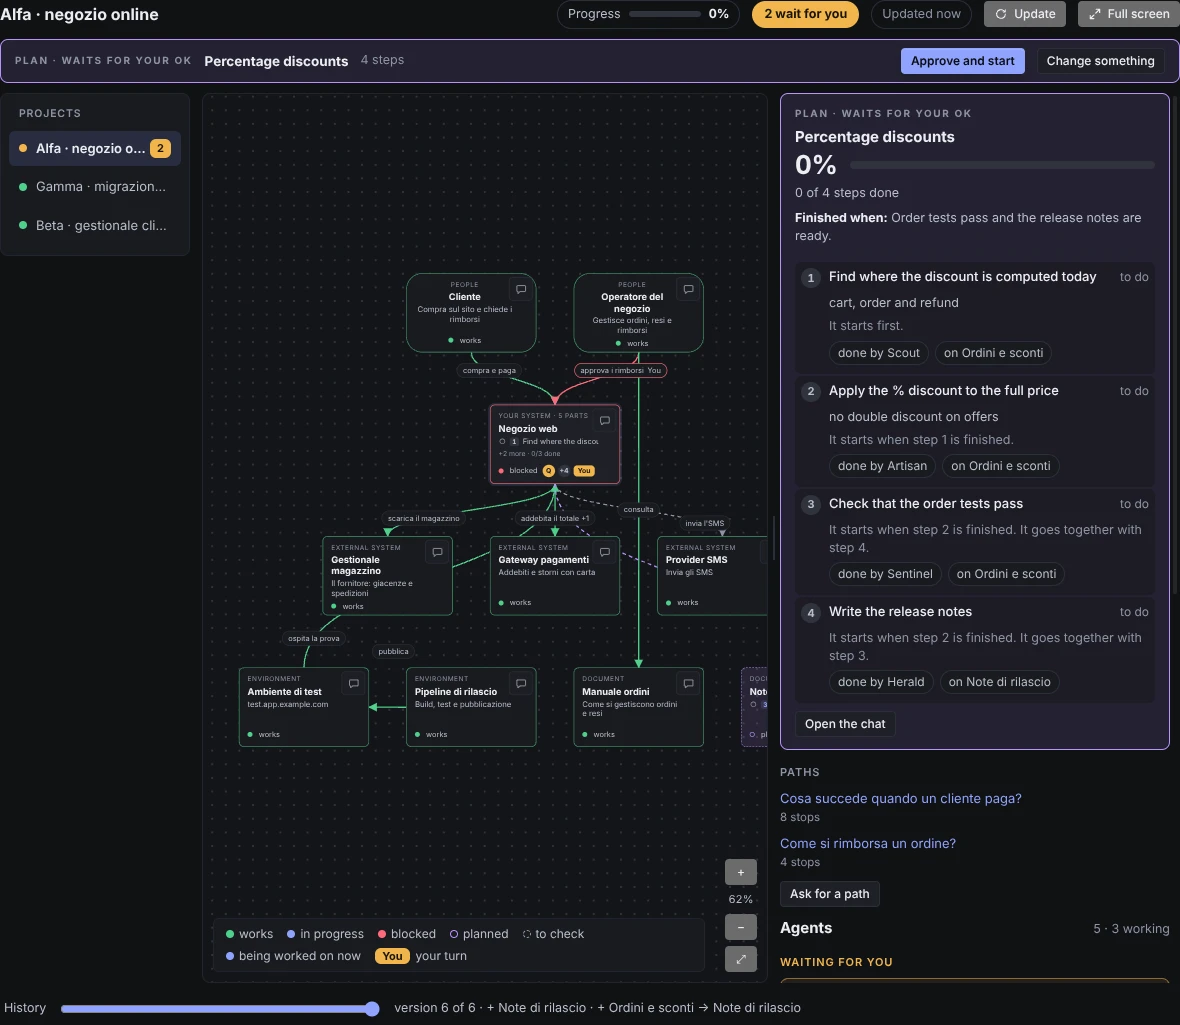
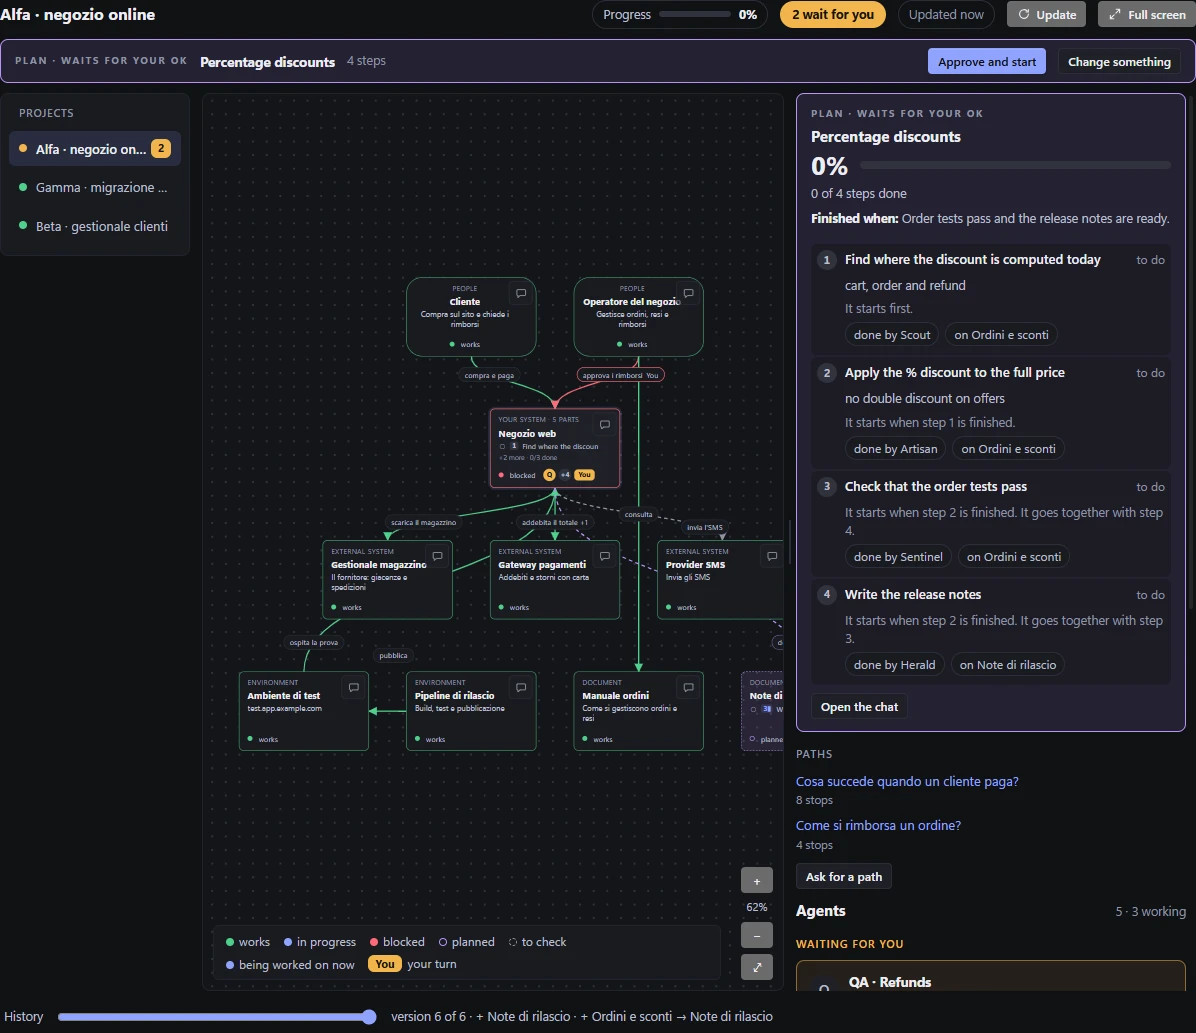
docs: guide card and README shots for the vertical project map

diff --git a/src/shared/concept-guide.de.ts b/src/shared/concept-guide.de.ts
@@ -586,7 +586,7 @@ export const GUIDE_DE: Readonly<Record<string, string>> = {
   "\"Projects\" draws a project of yours in place of its code: people, your systems, external systems, environments and documents, with the links and the status of each; a click on a system opens its parts and shows around them the other systems they talk to. \"You\" marks what waits for you. The map button at the top of the Orchestrator (or Ctrl+Shift+S) opens the maps full screen (Esc leaves them on this page, with the Orchestrator beside it); the Orchestrator opens it too, beside itself, when you ask for a project’s map or lines, instead of drawing a diagram. Ctrl+wheel zooms where you point, dragging the background moves the view, ⤢ shows all of it; inside a system the button at the top left, Backspace or a double click on the background go back up. «Full screen» puts it really full screen (Esc leaves); the bubble at the top right of every box discusses it with the Orchestrator in one click: it gets a message ready with the box and its status. A box somebody works on right now pulses quietly and a line under work carries a moving mark; a plan shows its steps in order in the side panel, and on its box each step wears the number of its turn («∥» when it goes in parallel with others); with more than one project you pick from the list at the side. A click on a box, or on an arrow’s label, opens «How it works» at the side: the piece’s long text, its parts, what goes in and out and what passes on each link. The step of a plan under way is told in full (when it starts, who does it, on which box, how far it is); a click on another step’s row opens it. «Update» asks the Orchestrator to have the project read again and the map redrawn with the details: it uses tokens, and the map changes by itself when it is done.": "„Projekte“ zeichnet ein Projekt von dir statt seines Codes: Personen, deine Systeme, externe Systeme, Umgebungen und Dokumente, mit den Verbindungen und dem Status von jedem; ein Klick auf ein System öffnet seine Teile und zeigt rundherum die anderen Systeme, mit denen sie sprechen. „Du“ markiert, was auf dich wartet. Der Kartenknopf oben im Orchestrator (oder Strg+Umschalt+S) öffnet die Karten im Vollbild (Esc lässt sie auf dieser Seite, mit dem Orchestrator daneben); auch der Orchestrator öffnet es, neben sich, wenn du nach der Karte oder den Linien eines Projekts fragst, statt ein Schema zu zeichnen. Strg+Mausrad zoomt dorthin, wo du zeigst, Ziehen des Hintergrunds verschiebt die Ansicht, ⤢ zeigt alles; in einem System führen der Knopf oben links, die Rücktaste oder ein Doppelklick auf den Hintergrund eine Ebene zurück. „Vollbild“ zeigt sie wirklich im Vollbild (Esc beendet es); die Sprechblase oben rechts in jedem Kasten bespricht ihn mit dem Orchestrator mit einem Klick: Er bekommt eine fertige Nachricht mit dem Kasten und seinem Status. Ein Kasten, an dem gerade jemand arbeitet, pulsiert leise, und eine Linie in Arbeit trägt eine wandernde Marke; ein Plan zeigt seine Schritte der Reihe nach im Bereich an der Seite, und auf seinem Kasten trägt jeder Schritt die Nummer seiner Runde («∥», wenn er parallel zu anderen läuft); bei mehreren Projekten wählst du aus der Liste an der Seite. Ein Klick auf einen Kasten oder auf die Beschriftung eines Pfeils öffnet an der Seite „So funktioniert es“: den langen Text des Teils, seine Teile, was hinein- und hinausgeht und was über jede Verbindung läuft. Der laufende Schritt eines Plans steht ausgeschrieben da (wann er beginnt, wer ihn macht, an welchem Kasten, wie weit er ist); ein Klick auf die Zeile eines anderen Schritts öffnet ihn. „Aktualisieren“ bittet den Orchestrator, das Projekt neu lesen und die Karte mit den Details neu zeichnen zu lassen: Das kostet Tokens, und die Karte ändert sich von selbst, wenn er fertig ist.",
   "An agent that reads the project draws it: ask the Orchestrator. Then the map follows the chats by itself: a chat linked to a box (the Orchestrator links it when it starts it, or the chat says so itself) turns it \"in progress\" when it starts, \"blocked\" with \"You\" while it waits for your answer, and \"done\" when it says it has finished; the agents show beside the map with the steps done and the question they ask you. A box with pieces inside says what they say: all done = done, one in progress = in progress, one blocked = blocked. A finished phase or step reads \"done\", a system \"works\". A status nobody confirmed for 2 hours, or whose files changed, turns \"to check\".": "Ein Agent, der das Projekt liest, zeichnet sie: Frag den Orchestrator. Danach folgt die Karte den Chats von selbst: Ein Chat, der mit einem Kasten verknüpft ist (der Orchestrator verknüpft ihn beim Start, oder der Chat sagt es selbst), setzt ihn auf „in Arbeit“, wenn er startet, auf „blockiert“ mit „Du“, solange er auf deine Antwort wartet, und auf „erledigt“, wenn er meldet, dass er fertig ist; die Agenten erscheinen neben der Karte mit den erledigten Schritten und der Frage, die sie dir stellen. Ein Kasten mit Teilen darin sagt, was sie sagen: alle erledigt = erledigt, einer in Arbeit = in Arbeit, einer blockiert = blockiert. Eine fertige Phase oder ein fertiger Schritt heißt „erledigt“, ein System „funktioniert“. Ein Status, den seit 2 Stunden niemand bestätigt hat oder dessen Dateien sich geändert haben, wird „zu prüfen“.",
   "Every save is a version: the \"History\" slider plays the project from its first map to now. The map lives in the brain (projects/), and the Orchestrator reads it, opens it or corrects it for you. Deeper: a part with pieces of its own opens like a system, down to four levels. A box’s panel also tells the rules it applies, what it keeps and where, how big it is (files and lines counted by the app, no tokens), why it is made this way and its key files: a click opens the file in the viewer. «Paths» tells a question about the project («What happens when a customer pays?») stop by stop on the boxes: Next and Back (or ← →) light one box at a time and the view follows it; «Ask for a path» gets the question ready for the Orchestrator.": "Jedes Speichern ist eine Version: Der Regler „Verlauf“ spielt das Projekt von der ersten Karte bis heute ab. Die Karte liegt im Brain (projects/), und der Orchestrator liest, öffnet oder korrigiert sie für dich. Tiefer: Ein Teil mit eigenen Stücken öffnet sich wie ein System, bis zu vier Ebenen. Das Feld eines Kastens nennt auch die Regeln, die er anwendet, was er speichert und wo, wie groß er ist (Dateien und Zeilen, von der App gezählt, ohne Tokens), warum er so gebaut ist und die wichtigen Dateien: Ein Klick öffnet die Datei im Viewer. „Wege“ erzählt eine Frage zum Projekt („Was passiert, wenn ein Kunde zahlt?“) Station für Station auf den Kästen: Weiter und Zurück (oder ← →) heben einen Kasten nach dem anderen hervor, und die Ansicht folgt ihm; „Einen Weg erfragen“ bereitet die Frage für den Orchestrator vor.",
-  "A project that is a path of work is drawn as a sequence: the phases in a line, one after the other, and inside each phase its steps, in a line too, in the order they were saved. Every box wears its number, a plain arrow leads to the next (with no status: it never says «da capire») and two steps sit side by side only when the map says they go together («∥»). A step’s panel tells its status, proofs (a text, a file, an address) and links, a phase’s lists its steps: a click opens the step. Empty sections do not show. The panel gets wider by dragging its left edge and remembers the width; a double click for the starting one. The map also tells how far the project is: the percentage at the top, and the side panel opens with «Progress»: the steps done, the phase we are at, what is under way and who works on it, what waits for you, what is blocked, what comes next, and every phase with its own bar (a click enters it). The pieces with nothing inside are counted, and done is what «works». On a map with no order (no phases, no boxes chained one after the other) the percentage is the one of the plan under way. Every plan has its card there, one row per step; over the drawing only one line stays, with «Approva e parti», while a plan waits for your ok.": "Ein Projekt, das ein Arbeitsweg ist, wird als Abfolge gezeichnet: die Phasen in einer Reihe, eine nach der anderen, und in jeder Phase ihre Schritte, ebenfalls in einer Reihe, in der gespeicherten Reihenfolge. Jeder Kasten trägt seine Nummer, ein einfacher Pfeil führt zum nächsten (ohne Status: er sagt nie «da capire») und zwei Schritte stehen nur dann nebeneinander, wenn die Karte sagt, dass sie zusammen laufen («∥»). Der Bereich eines Schritts nennt Status, Belege (ein Text, eine Datei, eine Adresse) und Links, der einer Phase listet ihre Schritte: ein Klick öffnet den Schritt. Leere Abschnitte erscheinen nicht. Der Bereich wird breiter, wenn man seinen linken Rand zieht, und merkt sich die Breite; Doppelklick für die Anfangsbreite. Die Karte sagt auch, wie weit das Projekt ist: oben der Prozentwert, und der Bereich an der Seite beginnt mit «Fortschritt»: die erledigten Schritte, die Phase, in der wir sind, was gerade läuft und wer daran arbeitet, was auf dich wartet, was blockiert ist, was danach kommt, und jede Phase mit ihrem eigenen Balken (ein Klick führt hinein). Gezählt werden die Teile, in denen nichts weiter steckt, und erledigt ist, was «funktioniert». Auf einer Karte ohne Reihenfolge (keine Phasen, keine Kästen in einer Kette hintereinander) gilt der Prozentwert des laufenden Plans. Jeder Plan hat dort seine Karte, mit einer Zeile pro Schritt; über der Zeichnung bleibt nur eine Zeile mit „Genehmigen und starten“, solange ein Plan auf dein Ok wartet.",
+  "A project that is a path of work is drawn as a sequence, top to bottom, never wrapping: every phase is an open frame with its steps inside, in the order they were saved. Every box wears its number, a plain arrow leads to the next (with no status: it never says «da capire»); the steps the map calls independent («∥») sit side by side in a dashed pink frame «∥ N in parallel», with the point where they split and the one where they join. Pink only says «in parallel»: the status colours stay on the boxes and the legend explains both. A step’s panel tells its status, proofs (a text, a file, an address) and links, a phase’s lists its steps: a click opens the step. Empty sections do not show. The panel gets wider by dragging its left edge and remembers the width; a double click for the starting one. The map also tells how far the project is: the percentage at the top, and the side panel opens with «Progress»: the steps done, the phase we are at, what is under way and who works on it, what waits for you, what is blocked, what comes next, and every phase with its own bar (a click enters it). The pieces with nothing inside are counted, and done is what «works». On a map with no order (no phases, no boxes chained one after the other) the percentage is the one of the plan under way. Every plan has its card there, one row per step; over the drawing only one line stays, with «Approva e parti», while a plan waits for your ok.": "Ein Projekt, das ein Arbeitsweg ist, wird als Abfolge gezeichnet, von oben nach unten, ohne Zeilenumbruch: jede Phase ist ein offener Rahmen mit ihren Schritten darin, in der gespeicherten Reihenfolge. Jeder Kasten trägt seine Nummer, ein einfacher Pfeil führt zum nächsten (ohne Status: er sagt nie «da capire»); die Schritte, die die Karte als unabhängig markiert («∥»), stehen nebeneinander in einem gestrichelten rosa Rahmen «∥ N parallel», mit dem Punkt, an dem sie sich teilen, und dem, an dem sie sich wieder treffen. Rosa sagt nur «parallel»: die Statusfarben bleiben auf den Kästen, und die Legende erklärt beide. Der Bereich eines Schritts nennt Status, Belege (ein Text, eine Datei, eine Adresse) und Links, der einer Phase listet ihre Schritte: ein Klick öffnet den Schritt. Leere Abschnitte erscheinen nicht. Der Bereich wird breiter, wenn man seinen linken Rand zieht, und merkt sich die Breite; Doppelklick für die Anfangsbreite. Die Karte sagt auch, wie weit das Projekt ist: oben der Prozentwert, und der Bereich an der Seite beginnt mit «Fortschritt»: die erledigten Schritte, die Phase, in der wir sind, was gerade läuft und wer daran arbeitet, was auf dich wartet, was blockiert ist, was danach kommt, und jede Phase mit ihrem eigenen Balken (ein Klick führt hinein). Gezählt werden die Teile, in denen nichts weiter steckt, und erledigt ist, was «funktioniert». Auf einer Karte ohne Reihenfolge (keine Phasen, keine Kästen in einer Kette hintereinander) gilt der Prozentwert des laufenden Plans. Jeder Plan hat dort seine Karte, mit einer Zeile pro Schritt; über der Zeichnung bleibt nur eine Zeile mit „Genehmigen und starten“, solange ein Plan auf dein Ok wartet.",
   "\"Agents and skills\" draws every agent with its skills, the rules it receives and its memory; a click opens the inspector, which leads to the agent’s page, the skill or the file. \"Brain notes\" shows the brain’s notes, areas, agents and tools with their links, with search, an inspector and the brain checks.": "„Agenten und Skills“ zeichnet jeden Agenten mit seinen Skills, den Regeln, die er bekommt, und seinem Gedächtnis; ein Klick öffnet den Inspektor, der zur Seite des Agenten, zum Skill oder zur Datei führt. „Brain-Notizen“ zeigt Notizen, Bereiche, Agenten und Werkzeuge des Brain mit ihren Verbindungen, mit Suche, Inspektor und den Brain-Prüfungen.",
   "Like a metro map with live trains: you see the lines and where something is moving right now.": "Wie ein U-Bahn-Plan mit Zügen in Echtzeit: du siehst die Linien und wo sich gerade etwas bewegt.",
   "Agents → skills → rules → memory graph from lib/brain-model-view.ts linkGraph; notes from /api/map; live layer from brain/lib/live.ts liveGraph (chats, tools, tabs), drawn by brain/map/engine.ts.": "Graph Agenten → Skills → Regeln → Gedächtnis aus lib/brain-model-view.ts linkGraph; Notizen aus /api/map; Live-Ebene aus brain/lib/live.ts liveGraph (Chats, Werkzeuge, Tabs), gezeichnet von brain/map/engine.ts.",

diff --git a/src/shared/concept-guide.ts b/src/shared/concept-guide.ts
@@ -1991,8 +1991,8 @@ export const CONCEPTS: readonly ConceptCard[] = [
       b('Ogni salvataggio è una versione: il cursore «Storia» ripercorre il progetto dalla prima mappa a oggi. La mappa sta nel brain (projects/), e l’Orchestrator la legge, la apre o la corregge per te. Più a fondo: una parte con pezzi suoi si apre come un sistema, fino a quattro livelli. Il pannello di un riquadro dice anche le regole che applica, cosa tiene e dove, quanto è grande (file e righe contati dall’app, senza token), perché è fatto così e i file chiave: un clic apre il file nel visualizzatore. «Percorsi» racconta una domanda sul progetto («Cosa succede quando un cliente paga?») tappa per tappa sui riquadri: Avanti e Indietro (o ← →) accendono un riquadro alla volta e la vista lo segue; «Chiedi un percorso» prepara la domanda per l’Orchestrator.',
         'Every save is a version: the "History" slider plays the project from its first map to now. The map lives in the brain (projects/), and the Orchestrator reads it, opens it or corrects it for you. Deeper: a part with pieces of its own opens like a system, down to four levels. A box’s panel also tells the rules it applies, what it keeps and where, how big it is (files and lines counted by the app, no tokens), why it is made this way and its key files: a click opens the file in the viewer. «Paths» tells a question about the project («What happens when a customer pays?») stop by stop on the boxes: Next and Back (or ← →) light one box at a time and the view follows it; «Ask for a path» gets the question ready for the Orchestrator.'),
       // src/shared/project-map.ts layoutOf; src/renderer/components/project-map/side-width.ts clampSide; src/shared/project-map-progress.ts progressOf, countOf; src/renderer/components/project-map/MapProgress.tsx ProgressCard; src/renderer/components/project-map/PlanCard.tsx PlanCard
-      b('Un progetto che è un percorso di lavoro si disegna come sequenza: le fasi in fila, una dopo l’altra, e dentro ogni fase i suoi passi, in fila anche loro, nell’ordine in cui sono stati salvati. Ogni riquadro porta il suo numero, una freccia semplice porta al successivo (senza stato: non dice mai «da capire») e due passi stanno affiancati solo se la mappa dice che vanno insieme («∥»). Il pannello di un passo dice stato, prove (un testo, un file, un indirizzo) e link, quello di una fase elenca i suoi passi: un clic apre il passo. Le sezioni vuote non compaiono. Il pannello si allarga trascinando il suo bordo sinistro e ricorda la larghezza; doppio clic per quella iniziale. La mappa dice anche a che punto è il progetto: in alto la percentuale, e il pannello a lato si apre con «Avanzamento»: i passi fatti, la fase a cui siamo, cosa è in corso e chi ci lavora, cosa tocca a te, cosa è bloccato, cosa viene poi, e ogni fase con la sua barra (un clic ci entra). Contano i pezzi senza niente dentro, ed è fatto quello che «funziona». Su una mappa senza un ordine (né fasi, né riquadri in fila uno dopo l’altro) la percentuale è quella del piano in corso. Ogni piano ha lì la sua scheda, con una riga per passo; sopra il disegno resta solo una riga con «Approva e parti» finché un piano aspetta il tuo ok.',
-        'A project that is a path of work is drawn as a sequence: the phases in a line, one after the other, and inside each phase its steps, in a line too, in the order they were saved. Every box wears its number, a plain arrow leads to the next (with no status: it never says «da capire») and two steps sit side by side only when the map says they go together («∥»). A step’s panel tells its status, proofs (a text, a file, an address) and links, a phase’s lists its steps: a click opens the step. Empty sections do not show. The panel gets wider by dragging its left edge and remembers the width; a double click for the starting one. The map also tells how far the project is: the percentage at the top, and the side panel opens with «Progress»: the steps done, the phase we are at, what is under way and who works on it, what waits for you, what is blocked, what comes next, and every phase with its own bar (a click enters it). The pieces with nothing inside are counted, and done is what «works». On a map with no order (no phases, no boxes chained one after the other) the percentage is the one of the plan under way. Every plan has its card there, one row per step; over the drawing only one line stays, with «Approva e parti», while a plan waits for your ok.'),
+      b('Un progetto che è un percorso di lavoro si disegna come sequenza, dall’alto in basso, senza mai andare a capo: ogni fase è una cornice aperta con dentro i suoi passi, nell’ordine in cui sono stati salvati. Ogni riquadro porta il suo numero, una freccia semplice porta al successivo (senza stato: non dice mai «da capire»); i passi che la mappa dice indipendenti («∥») stanno affiancati in una cornice rosa tratteggiata «∥ N in parallelo», con il punto in cui si dividono e quello in cui si riuniscono. Il rosa dice solo «in parallelo»: i colori dello stato restano sui riquadri e la legenda li spiega entrambi. Il pannello di un passo dice stato, prove (un testo, un file, un indirizzo) e link, quello di una fase elenca i suoi passi: un clic apre il passo. Le sezioni vuote non compaiono. Il pannello si allarga trascinando il suo bordo sinistro e ricorda la larghezza; doppio clic per quella iniziale. La mappa dice anche a che punto è il progetto: in alto la percentuale, e il pannello a lato si apre con «Avanzamento»: i passi fatti, la fase a cui siamo, cosa è in corso e chi ci lavora, cosa tocca a te, cosa è bloccato, cosa viene poi, e ogni fase con la sua barra (un clic ci entra). Contano i pezzi senza niente dentro, ed è fatto quello che «funziona». Su una mappa senza un ordine (né fasi, né riquadri in fila uno dopo l’altro) la percentuale è quella del piano in corso. Ogni piano ha lì la sua scheda, con una riga per passo; sopra il disegno resta solo una riga con «Approva e parti» finché un piano aspetta il tuo ok.',
+        'A project that is a path of work is drawn as a sequence, top to bottom, never wrapping: every phase is an open frame with its steps inside, in the order they were saved. Every box wears its number, a plain arrow leads to the next (with no status: it never says «da capire»); the steps the map calls independent («∥») sit side by side in a dashed pink frame «∥ N in parallel», with the point where they split and the one where they join. Pink only says «in parallel»: the status colours stay on the boxes and the legend explains both. A step’s panel tells its status, proofs (a text, a file, an address) and links, a phase’s lists its steps: a click opens the step. Empty sections do not show. The panel gets wider by dragging its left edge and remembers the width; a double click for the starting one. The map also tells how far the project is: the percentage at the top, and the side panel opens with «Progress»: the steps done, the phase we are at, what is under way and who works on it, what waits for you, what is blocked, what comes next, and every phase with its own bar (a click enters it). The pieces with nothing inside are counted, and done is what «works». On a map with no order (no phases, no boxes chained one after the other) the percentage is the one of the plan under way. Every plan has its card there, one row per step; over the drawing only one line stays, with «Approva e parti», while a plan waits for your ok.'),
     ],
     analogy: b('Come la cartina della metropolitana con i treni in tempo reale: vedi le linee e dove si sta muovendo qualcosa adesso.',
       'Like a metro map with live trains: you see the lines and where something is moving right now.'),
@@ -2010,7 +2010,7 @@ export const CONCEPTS: readonly ConceptCard[] = [
       6: ['src/main/projectmap/service.ts#ProjectMaps', 'src/main/projectmap/follow.ts#sayOf', 'src/shared/project-map-status.ts#statusesOf'],
       7: ['src/main/projectmap/store.ts#ProjectMapStore', 'src/main/projectmap/tools.ts#appProjectMapTool', 'src/shared/project-map-progress.ts#progressOf', 'src/shared/project-map-progress.ts#countOf'],
     },
-    sources: ['src/renderer/components/brain-model/MapPage.tsx', 'src/renderer/components/project-map/ProjectMapView.tsx', 'src/shared/project-map.ts', 'src/shared/project-map-progress.ts', 'src/main/projectmap/service.ts', 'src/main/projectmap/store.ts', 'src/main/projectmap/tools.ts', 'src/renderer/lib/brain-model-view.ts', 'src/renderer/dashboard/BrainNotesMap.tsx', 'src/renderer/brain/map/BrainMap.tsx', 'src/renderer/brain/map/engine.ts', 'src/renderer/brain/lib/live.ts'],
+    sources: ['src/renderer/components/brain-model/MapPage.tsx', 'src/renderer/components/project-map/ProjectMapView.tsx', 'src/shared/project-map.ts', 'src/shared/project-map-line.ts', 'src/shared/project-map-progress.ts', 'src/main/projectmap/service.ts', 'src/main/projectmap/store.ts', 'src/main/projectmap/tools.ts', 'src/renderer/lib/brain-model-view.ts', 'src/renderer/dashboard/BrainNotesMap.tsx', 'src/renderer/brain/map/BrainMap.tsx', 'src/renderer/brain/map/engine.ts', 'src/renderer/brain/lib/live.ts'],
   },
 ];
 
